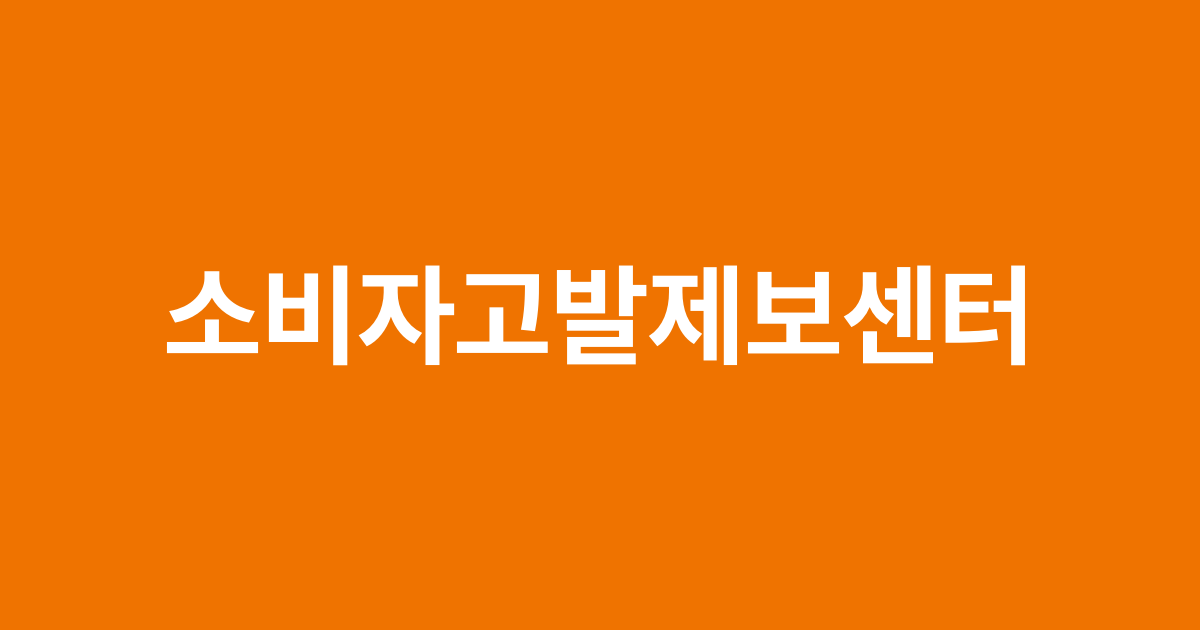
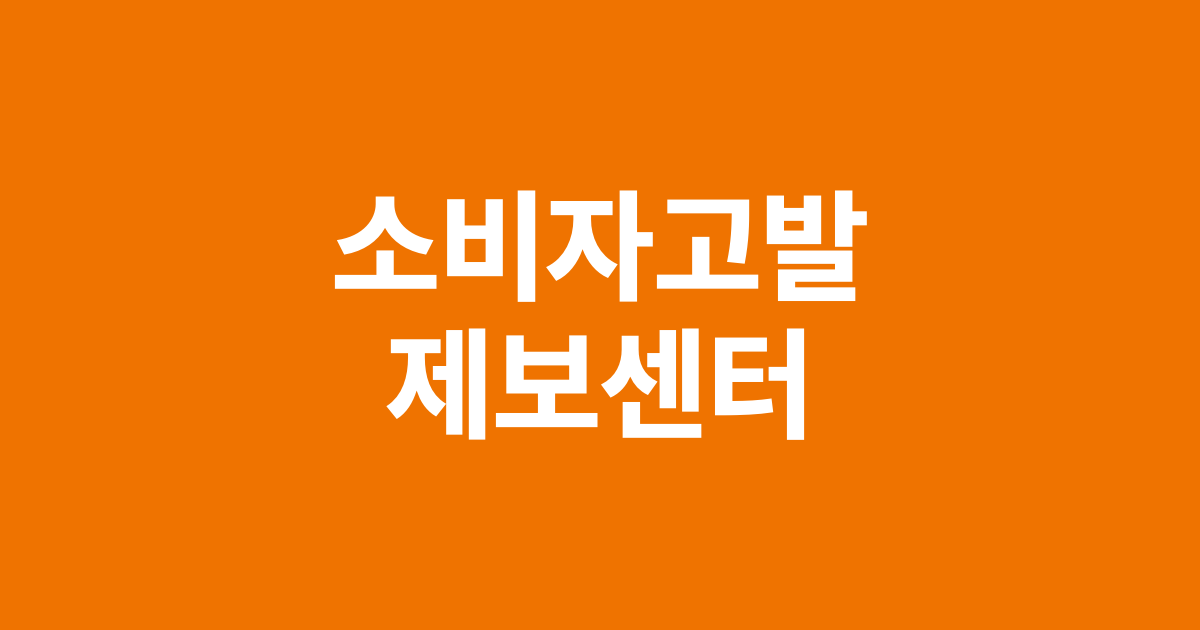
검색 미리보기 그림 두 줄로, 이용 안내 설명 따로 (#483)
* 모아밥: 모아배달 웹 서비스 + 안드로이드·아이폰 앱 첫 판

- moabap/: 손님(세트·도착 시간·받는 곳·주문 상태·주문 내역), 가게 화면(시간별 만들 개수), 운영자(묶음별 입금 확인·조리·픽업·도착, 가게·세트·받는 곳·시간 관리), 개인정보처리방침
- 소보루 서버 안에서 따로 돌고 DB도 따로: MOABAP_HOST 주소, 도메인 전엔 /moabap (MOABAP_PREVIEW=1)
- deploy/set-moabap.sh(켜기), set-moabap-domain.sh(도메인 연결)
- moabap-app/: 웹뷰 앱 kr.co.moabap.app (구글·애플)

Claude-Session: https://claude.ai/code/session_01SGfBdtXmX7h9qt8XW4iLQw

* 모아밥: 도메인 moabap.com

Claude-Session: https://claude.ai/code/session_01SGfBdtXmX7h9qt8XW4iLQw

* 모아밥: 취소·환불 정책 페이지 (/refund), 홈 하단 링크

Claude-Session: https://claude.ai/code/session_01SGfBdtXmX7h9qt8XW4iLQw

* 모아밥: 통신판매중개자 표시, 가게 판매자 정보(대표자·사업자번호·주소), 환불 정책 중개 기준

Claude-Session: https://claude.ai/code/session_01SGfBdtXmX7h9qt8XW4iLQw

* 모아밥: #457에서 빠진 당근식 PC 화면·건물 전용·소개·사장님 신청 다시 넣기, 하단 사업자 정보(운영자 화면에서 입력)

Claude-Session: https://claude.ai/code/session_01SGfBdtXmX7h9qt8XW4iLQw

* 모아밥: 내 위치로 가까운 건물 찾기(위치는 기기 안에서만 계산), 받는 곳 지도 좌표, 하단 관리자 링크, 앱 위치 권한

Claude-Session: https://claude.ai/code/session_01SGfBdtXmX7h9qt8XW4iLQw

* 모아밥: 세트 사진 올리기, 네이버·구글 검색 등록(확인 코드·sitemap·robots·og), 공유 이미지

Claude-Session: https://claude.ai/code/session_01SGfBdtXmX7h9qt8XW4iLQw

* 모아밥 최적화: 검색용 제목·구조화 데이터(상품·사이트), 주문·운영 화면 검색 제외, gzip 압축, 정적 파일 캐시, 폰트 미리 연결

Claude-Session: https://claude.ai/code/session_01SGfBdtXmX7h9qt8XW4iLQw

* 소보루 CX 첫 화면 검색 제목·설명 줄이기 (네이버 권장 40자·80자 이내)

Claude-Session: https://claude.ai/code/session_01SGfBdtXmX7h9qt8XW4iLQw

* 이름 붙여 쓰기: 소보루 CX → 소보루CX (사이트·앱·메일·문구 전체)
[…]

Changed region(s): [[0.1233, 0.3016, 0.8633, 0.6937]]

diff --git a/templates/info.html b/templates/info.html
@@ -1,7 +1,7 @@
 {% extends 'base.html' %}
 {% from 'page_blocks.html' import generic %}
 {% block title %}{{ txt(page ~ '.title') }} | {{ txt('site.name') }}{% endblock %}
-{% block description %}{{ txt(page ~ '.intro') or txt('seo.description') }}{% endblock %}
+{% block description %}{{ txt(page ~ '.intro') or (ui('guide.desc', '소비자고발제보센터 이용 방법이에요. 제보 쓰기부터 업체 답변, 기사로 알리기까지 순서대로 알려 드려요.') if page == 'guide' else txt('seo.description')) }}{% endblock %}
 {% block head %}{% if page == 'faq' %}{% set qs = [] %}{% for item in items('faq') if item.a %}{% set _ = qs.append({"@type": "Question", "name": item.q|string, "acceptedAnswer": {"@type": "Answer", "text": item.a|string}}) %}{% endfor %}{% if qs %}<script type="application/ld+json">{{ {"@context": "https://schema.org", "@type": "FAQPage", "mainEntity": qs}|tojson }}</script>{% endif %}{% endif %}{% if page == 'guide' %}{% set steps = [] %}{% for st in g.lists.get('guide_steps', []) if st.title %}{% set _ = steps.append({"@type": "HowToStep", "position": loop.index, "name": st.title|string, "text": st.title|string}) %}{% endfor %}{% if steps %}<script type="application/ld+json">{{ {"@context": "https://schema.org", "@type": "HowTo", "@id": canonical_url() ~ "#howto", "name": ui_text('guide.howto_name', '소비자 피해 제보하는 방법'), "inLanguage": "ko", "step": steps, "publisher": {"@id": canonical_url('/') ~ "#organization"}}|tojson }}</script>{% endif %}{% endif %}{% endblock %}
 {% block content %}<main>
 {% if page == 'guide' %}

diff --git a/app.py b/app.py
@@ -470,7 +470,7 @@ def footer_rows():
     rows=[[(key,footer_label(key),g.content.get(key)) for key in row if g.content.get(key)] for row in FOOTER_ROWS]
     return [row for row in rows if row]
 app.jinja_env.globals['footer_rows']=footer_rows
-app.jinja_env.globals['css_v']='jebo-128'  # style.css 캐시 갱신용. 디자인을 고치면 숫자를 올림
+app.jinja_env.globals['css_v']='jebo-129'  # style.css 캐시 갱신용. 디자인을 고치면 숫자를 올림
 def asset(filename):
     # 정적 파일이 바뀌면 주소도 바뀌게(수정 시각을 v로) 해서 브라우저가 예전 그림을 캐시에서 보여 주지 않게 함
     try:version=int((BASE/'static'/filename).stat().st_mtime)
